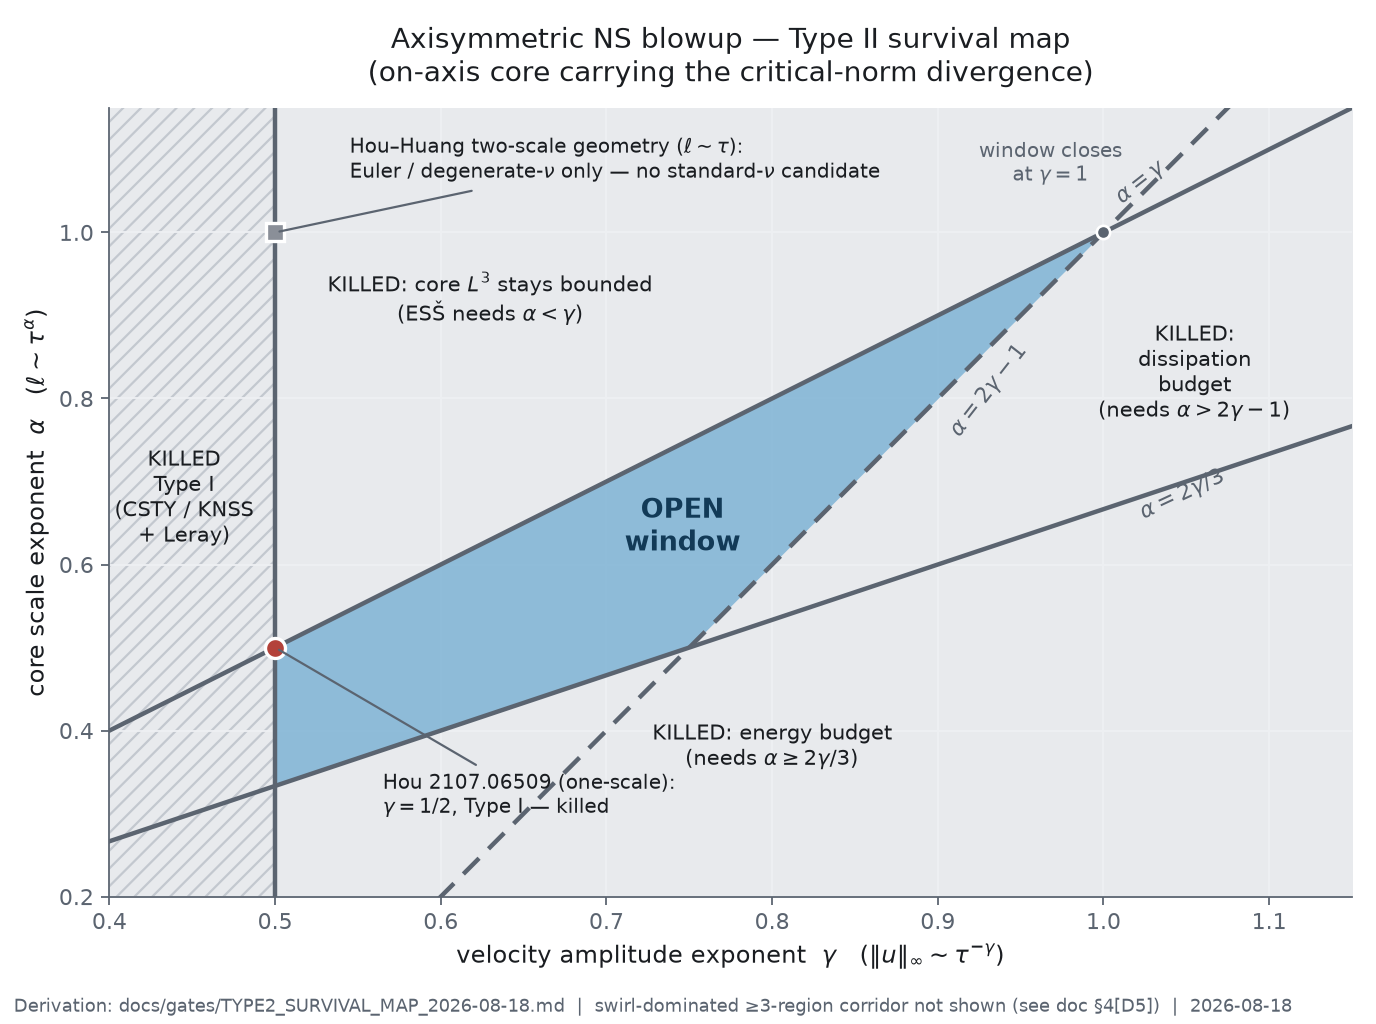
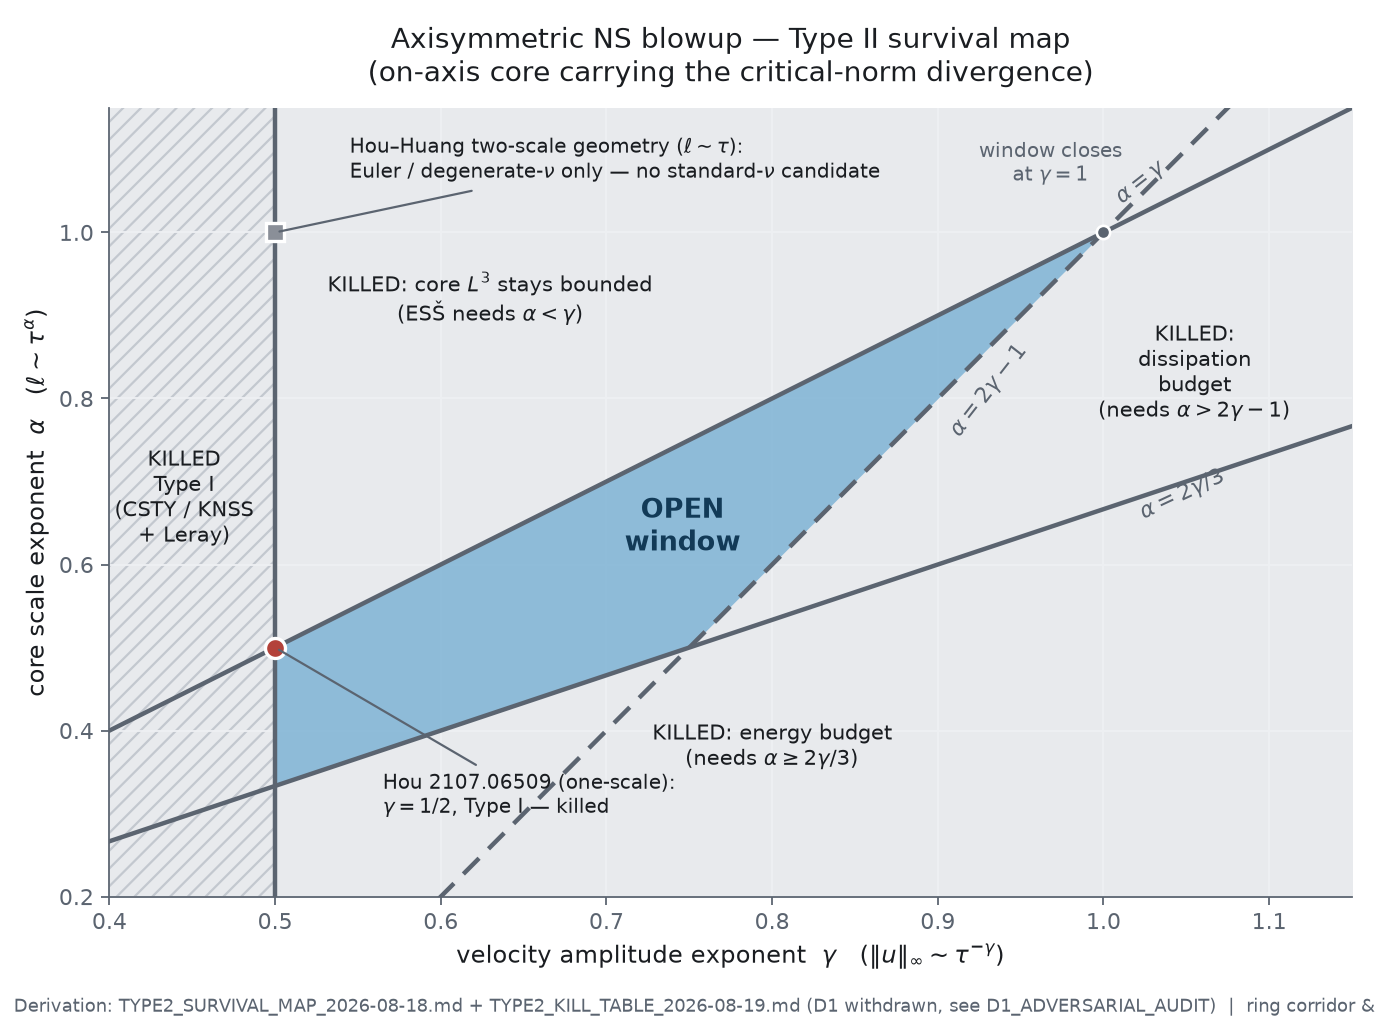
Stage A: adversarial audit withdraws the D1 ring cut; kill table with verified CSTY-II
The rho < 1/2 CKN-cylinder kill was unsound: epsilon-regularity at a
regular point supplies no uniform scale-invariant bound at the visited
scale, and single-scale largeness proves nothing. Replace it by the
conditional transport cut rho >= min(1-gamma, 1/2); the on-axis blob
window is unaffected. Corrections appended in place (map document,
figure footnote, lab registry).

Add the kill table translating each regularity theorem into its excluded
exponent subset: CSTY-II verified verbatim (r^(-1+eps)|t|^(-eps/2)
bounds, arbitrary constant) is automatic inside the blob window and
forces gamma > rho or a mesoscale violation for rings; the conditional
swirl-criteria family pins the core to sigma = alpha (O(1) circulation,
amplitude-subdominant). Dimension answer: S_survive is a 2-D wedge plus
a 3-D conditional slab plus the >=3-region corridor - not a curve, not
empty. Verification debts recorded: KNSS exact form, swirl-criteria
family, Seregin 2402.13229 full text.

Changed region(s): [[0.0938, 0.9688, 1.0, 1.0]]

diff --git a/experiments/type2_survival_map.py b/experiments/type2_survival_map.py
@@ -108,9 +108,9 @@ for s in ("left", "bottom"):
 ax.tick_params(colors=INK_MUTED)
 ax.grid(color="#eef0f3", lw=0.8, zorder=0)
 fig.text(0.01, 0.012,
-         "Derivation: docs/gates/TYPE2_SURVIVAL_MAP_2026-08-18.md  |  "
-         "swirl-dominated ≥3-region corridor not shown (see doc §4[D5])"
-         "  |  2026-08-18",
+         "Derivation: TYPE2_SURVIVAL_MAP_2026-08-18.md + TYPE2_KILL_TABLE_2026-08-19.md "
+         "(D1 withdrawn, see D1_ADVERSARIAL_AUDIT)  |  ring corridor & ≥3-region "
+         "scenarios doc-side only  |  rev. 2026-08-19",
          fontsize=8, color=INK_MUTED)
 
 out = Path(__file__).resolve().parents[1] / "docs" / "gates" / "type2_survival_map.png"

diff --git a/docs/gates/TYPE2_KILL_TABLE_2026-08-19.md b/docs/gates/TYPE2_KILL_TABLE_2026-08-19.md
@@ -1,0 +1,65 @@
+# Type II kill table — every regularity theorem as an excluded subset of exponent space
+
+Date: 2026-08-19 (JST). Companions:
+[`TYPE2_SURVIVAL_MAP_2026-08-18.md`](TYPE2_SURVIVAL_MAP_2026-08-18.md) (base map),
+[`D1_ADVERSARIAL_AUDIT_2026-08-19.md`](D1_ADVERSARIAL_AUDIT_2026-08-19.md) ([D1] withdrawn).
+
+Format target: `S_survive = S₀ \ ⋃_j K_j`, with each theorem translated into the subset
+`K_j` of exponent space it excludes. Exponents: amplitude `γ` (`‖u‖_∞ ~ τ^{−γ}`), core
+scale `α` (`ℓ ~ τ^α`), ring radius `ρ` (`R ~ τ^ρ`; blob = `ρ = α`), core swirl amplitude
+`σ` (`sup_core |u_θ| ~ τ^{−σ}`). Status tags: [H] hard (statement verified),
+[V✓] verified from the source abstract today, [V?] believed/unverified, [C] conditional on
+a stated hypothesis, [B] ansatz bookkeeping.
+
+## 1. The table
+
+| # | Source | Exact hypothesis (as verified) | Excluded subset `K_j` | Status |
+|---|---|---|---|---|
+| K1 | Leray 1934 | local existence lower bounds | `γ < 1/2`; enstrophy exponent `β < 1/4` | [H] |
+| K2 | CSTY-II (arXiv:0709.4230), CSTY-I; KNSS Acta 2009 | axisym, nontrivial swirl, `|v| ≤ C_*|t|^{−1/2}`, `C_*` arbitrary ⇒ regular | `{γ = 1/2` with bounded prefactor`}` — Type II required | [V✓] |
+| K3 | CSTY-II (arXiv:0709.4230) | axisym, `|v| ≤ C_* r^{−1+ε}|t|^{−ε/2}` for some `ε>0`, `C_*` arbitrary ⇒ regular | candidates whose *global* profile obeys such a bound for some `ε`. Core placement: the violation `sup |u|·r^{1−ε}τ^{ε/2} = ∞` must occur somewhere for **every** `ε ∈ (0, 1]`. Blob core: automatic in the window (`γ > α` and `γ > 1/2` suffice — no new cut). Ring core: forces **`γ > ρ`** or the violation moves to a separate mesoscale region | [V✓] |
+| K4 | KNSS Acta 2009 (Liouville) | axisym, `|v| ≤ C r^{−1}` ⇒ regular (`ε = 0` endpoint of K3) | candidates with `sup_x u·r < ∞`; blob window: automatic violation (`u·r ~ τ^{α−γ} → ∞`) — no new cut | [V?] (abstract not refetched; consistent with K3) |
+| K5 | energy + dissipation (Leray) | `‖u‖₂` bounded, `∫‖∇u‖₂² < ∞` | blob: `α < 2γ/3` or `α ≤ 2γ−1`; ring: `ρ+2α < 2γ` or `ρ ≤ 2γ−1` | [H]+[B] |
+| K6 | ESŠ 2003 / Seregin 2012 | `‖u‖_{L³} → ∞` necessary | core-carried-`L³` variants: blob `α ≥ γ`; ring `ρ+2α ≥ 3γ`. Swirl-dominated core (`σ = γ`, at `r ~ R`): **arithmetically incompatible** with core-carried `L³` ([D2], via `Γ` max principle `γ ≤ ρ`) — forces ≥3-region structure | [H]+[B] |
+| K7 | Tao 2019 (triple-log lower bound on `‖u‖_{L³}`) | quantitative ESŠ rate | cuts only sub-power-law `L³` growth; **no cut** on power-law ansätze | [H], vacuous here |
+| K8 | transport/diffusion displacement | hypothesis (T): structure advected + diffused | ring: `ρ < min(1−γ, 1/2)` excluded; blob: no cut (no translation) | [C] ([D1′]; replaces withdrawn [D1]) |
+| K9 | swirl-component criteria family (Lei–Zhang / Wei-type: regularity if `|u_θ| ≤ C r^{−d}` for some `d < 1`) | **to verify** | if the family holds: core swirl must violate every `d < 1` bound: `σ ≥ d·α` for all `d < 1` ⟹ `σ ≥ α`; with `Γ` max principle (`σ ≤ α`) ⟹ **`σ = α` exactly**: the core must carry `Γ ~ O(1)` circulation while remaining amplitude-subdominant (`σ = α < γ`) | [V?][C] |
+| K10 | Seregin note arXiv:2402.13229 (Euler-scaling treatment of a Type II scenario; revised 2026-08) | abstract too thin to extract `K_j` | none claimed; full-text extraction is the outstanding [V2] item | [V?] open |
+
+## 2. Resulting survival set
+
+**Blob (on-axis, core carries `L³`):**
+`S_blob = {(γ, α) : 1/2 < γ < 1, max(2γ/3, 2γ−1) ≤ α < γ}` — **unchanged by today's
+audit** (K3/K4 violations are automatic inside it; K8 does not apply to a non-translating
+core). Conditional refinement from K9: the swirl exponent on its fibers is pinned to
+`σ = α` — an amplitude-subdominant core carrying `O(1)` swirl circulation.
+
+**Ring (core carries `L³`, meridionally dominated):**
+`S_ring = {(γ, ρ, α) : 1/2 < γ < 1, max(2γ−1, min(1−γ, 1/2)·[C]) < ρ ≤ α, ρ < γ (K3),
+2γ ≤ ρ + 2α < 3γ}` — closes at `γ = 1` (as before, from K5+K6).
+
+**Swirl-dominated ≥3-region corridor:** survives power counting at any `γ`, with the K3
+violation and the `L³` divergence both exiled to a mesoscale, and (under K9) the core pinned
+to `σ = α`. Every added requirement is structural, none yet lethal.
+
+## 3. Answer to the dimension question
+
+After subtracting every currently-verified `K_j`: the admissible set is a **2-dimensional
+open wedge** (blob) plus a **3-dimensional conditional slab** (ring) plus the baroque
+corridor. It is *not* down to a curve, and it is *not* empty. The conditional rows (K8, K9)
+do not reduce the dimension of `(γ, α)`; they pin auxiliary structure (`ρ` range, `σ = α`).
+Collapse to a curve or to ∅ would require: verified K9 with `d` pushed to a specific rate,
+the K10 full-text content, or genuinely new theorems at the `γ → 1/2⁺` edge.
+
+Operational reading: numerical search remains a legitimate objective —
+`find a standard-ν trajectory with fitted (γ, ρ, α) ∈ S_survive and √τ‖u‖_∞ → ∞ converged`
+— and the most informative theory work is whatever shrinks `S_blob` from its `γ → 1/2⁺`
+edge (K10 extraction, K9 verification) or hardens K8.
+
+## 4. Verification debts (explicit)
+
+1. K4: refetch KNSS abstract/statement for the exact `|v| ≤ C/r` form and solution class.
+2. K9: identify the exact swirl-component criteria (authors, exponent ranges, solution
+   class); only then does `σ = α` become load-bearing.
+3. K10: full-text extraction of the Seregin note (which Type II scenario, which weighted
+   bounds, what is proved) — the note was revised this month; the area is moving.

diff --git a/docs/gates/D1_ADVERSARIAL_AUDIT_2026-08-19.md b/docs/gates/D1_ADVERSARIAL_AUDIT_2026-08-19.md
@@ -1,0 +1,60 @@
+# Adversarial audit of [D1] (the ρ < 1/2 ring kill) — verdict: UNSOUND as stated, replaced
+
+Date: 2026-08-19 (JST). Target:
+[`TYPE2_SURVIVAL_MAP_2026-08-18.md`](TYPE2_SURVIVAL_MAP_2026-08-18.md) §4 [D1].
+
+## 1. The claimed argument
+
+A ring at radius `R ~ τ^ρ` with amplitude `τ^{−γ}` visits a fixed point `x₀`, `|x₀| = d`, at
+time-distance `τ_visit = d^{1/ρ}`; for `ρ < 1/2` the visit lies inside the parabolic
+cylinder `Q_d(x₀, T*)`; CKN ε-regularity at the regular point `(x₀, T*)` bounds `|u| ≤ C/d`
+there; the ring amplitude `d^{−γ/ρ}` then forces `γ ≤ ρ < 1/2`, contradicting Type II.
+
+## 2. The gap (audit finding)
+
+The step "`(x₀, T*)` regular ⇒ `|u| ≤ C/d` on `Q_{d/2}(x₀, T*)` with universal `C`" is
+**not a theorem**. What regularity of `(x₀, T*)` gives is boundedness of `u` on *some*
+parabolic neighborhood `Q_{r₀(x₀)}(x₀, T*)` with *point-dependent* `r₀(x₀)` and constant.
+The scale-invariant bound `|u| ≤ C/d` at scale `d` follows from CKN ε-regularity **only if
+the scaled local quantities at scale `d` are below the ε-threshold** — a quantitative
+smallness assumption on the solution near `x₀` at scale `d` that is not available for free;
+the passing ring is precisely a mechanism that can make those local quantities large at the
+visited scale. Largeness at one scale does not make `(x₀, T*)` singular either (the CKN
+criterion is a smallness-at-some-scale test, so failure at one scale proves nothing), so no
+contradiction with the measure-zero singular set can be extracted this way. The argument is
+circular where it matters. **[D1] is withdrawn as a hard cut.**
+
+## 3. Sound replacement [D1′] (weaker, hypothesis-labeled)
+
+**Hypothesis (T):** the singular structure is materially transported: its radial position
+changes no faster than advection by the flow plus viscous spreading,
+`R(τ₀) ≲ ∫₀^{τ₀} ‖u(s)‖_∞ ds + √(ν τ₀)`.
+
+This is not a theorem for an arbitrary "structure", but it is the physically forced regime
+for a vorticity-supported feature (vorticity moves by advection and diffusion; stretching
+amplifies but does not translate support). Under (T), with `‖u‖_∞ ~ s^{−γ}` and `γ < 1`:
+
+`τ₀^ρ ≲ τ₀^{1−γ} + τ₀^{1/2}` for all small `τ₀` ⟹ **`ρ ≥ min(1 − γ, 1/2)`** [D1′].
+
+- For `γ ∈ (1/2, 1)`: the cut is `ρ ≥ 1 − γ`, strictly weaker than the withdrawn `ρ ≥ 1/2`.
+- Without hypothesis (T), **no lower bound on `ρ` is currently established** here.
+
+## 4. Impact analysis
+
+- **On-axis blob window (`ρ = α`): unaffected.** The blob core never translates (it sits at
+  the origin while its scale collapses), so neither the withdrawn [D1] nor [D1′] applies to
+  it. The published primary window
+  `{1/2 < γ < 1, max(2γ/3, 2γ−1) ≤ α < γ}` stands as stated.
+- **Ring corridor: re-cut.** Replace `ρ ≥ 1/2` by the conditional
+  `ρ ≥ min(1−γ, 1/2)` [D1′/(T)]. The corridor widens accordingly at `γ` close to 1; all
+  other ring constraints (dissipation `ρ > 2γ−1`, geometry `α ≥ ρ`, [D2], and the new
+  CSTY-II cut in the kill table) are unchanged.
+- **Registry correction:** the statement "sub-parabolic ring collapse is dead" in the
+  2026-08-18 registry entry and survival-map document is downgraded to the conditional
+  [D1′] form; correction notes are appended in place rather than silently edited.
+
+## 5. Credit
+
+The audit demand came from the external reviewer's (GPT) observation that [D1] carried a
+larger logical step than the other cuts — center choice, time window, and the smallness of
+local integral quantities were exactly where the gap lay.

diff --git a/HANDOFF.md b/HANDOFF.md
@@ -295,6 +295,27 @@ Consequences for planning:
   ([V1]/[V2] in the map document) — they can only shrink the window near its `γ = 1/2`
   edge.
 
+Third pass (2026-08-19): adversarial audit + kill table —
+`docs/gates/D1_ADVERSARIAL_AUDIT_2026-08-19.md`, `docs/gates/TYPE2_KILL_TABLE_2026-08-19.md`.
+Outcomes:
+
+- **[D1] withdrawn** (the `ρ < 1/2` CKN-cylinder kill was unsound: ε-regularity gives no
+  uniform scale-invariant bound at the visited scale); replaced by the conditional transport
+  cut [D1′] `ρ ≥ min(1−γ, 1/2)`; the on-axis blob window is unaffected; corrections
+  propagated to the map document, figure footnote, and the lab registry entry;
+- CSTY-II verified verbatim (arXiv:0709.4230): `|v| ≤ C_* r^{−1+ε}|t|^{−ε/2}` ⇒ regular,
+  `C_*` arbitrary — inside the blob window its violation is automatic (no new cut); for
+  rings it forces `γ > ρ` or a mesoscale violation region;
+- conditional swirl razor (K9, unverified family): if `|u_θ| ≤ C r^{−d}` (`d < 1`) implies
+  regularity, then the core swirl exponent is pinned to `σ = α` exactly — an
+  amplitude-subdominant core carrying `O(1)` circulation `Γ`;
+- **dimension answer**: after all currently-verified cuts, `S_survive` = a 2-D open wedge
+  (blob) + a 3-D conditional slab (ring, `γ < 1` for core-carried `L³`) + the ≥3-region
+  corridor — not a curve, not empty;
+- **verification debts** (the next cheap theory items): K4 (KNSS exact `|v| ≤ C/r` form),
+  K9 (exact swirl-component criteria), K10 (full-text extraction of Seregin
+  arXiv:2402.13229, revised 2026-08 — the area is actively moving).
+
 ## Exact next Lean gate
 
 Do not reopen the completed convolution, bounded-extension, Leray, positive-time smoothing,

diff --git a/docs/gates/TYPE2_SURVIVAL_MAP_2026-08-18.md b/docs/gates/TYPE2_SURVIVAL_MAP_2026-08-18.md
@@ -60,11 +60,15 @@ case `ρ = α`), inner scale `ℓ ~ τ^α` (`α ≥ ρ`, thickness ≤ radius), 
 
 ## 4. Derived cuts
 
-- **[D1] Sub-parabolic ring collapse is dead: `ρ ≥ 1/2`.**
-  A fixed point `x₀`, `|x₀| = d`, is visited by the ring at time-distance
-  `τ_visit = d^{1/ρ}`. If `ρ < 1/2` then `d^{1/ρ} < d²` for small `d`, so the visit lies
-  inside `Q_d(x₀, T*)`, where [H8] bounds `|u| ≤ C/d`; but the ring amplitude there is
-  `d^{−γ/ρ}`, forcing `γ ≤ ρ < 1/2`, contradicting [H2].
+- **[D1] — WITHDRAWN 2026-08-19.** The original argument ("sub-parabolic ring collapse
+  `ρ < 1/2` is dead via CKN parabolic cylinders") contained an unsound step: ε-regularity
+  at a regular point does not supply a scale-invariant `|u| ≤ C/d` bound with a uniform
+  constant at the visited scale. See
+  [`D1_ADVERSARIAL_AUDIT_2026-08-19.md`](D1_ADVERSARIAL_AUDIT_2026-08-19.md). Replacement:
+  **[D1′] (conditional)** — under the transport hypothesis (structure advected by the flow
+  plus viscous spreading), `ρ ≥ min(1−γ, 1/2)`. The on-axis blob window is unaffected
+  (a non-translating core); the ring corridor constraint weakens from `ρ ≥ 1/2` to the
+  conditional [D1′] form.
 - **[D2] A swirl-dominated core cannot carry the critical-norm divergence.**
   If the sup is carried by `u_θ` at radius `R ~ τ^ρ`, [H7] gives `γ ≤ ρ`. Then [B3] would
   need `ρ + 2α < 3γ ≤ 3ρ`, i.e. `α < ρ`, contradicting `α ≥ ρ`. Hence a swirl-dominated
